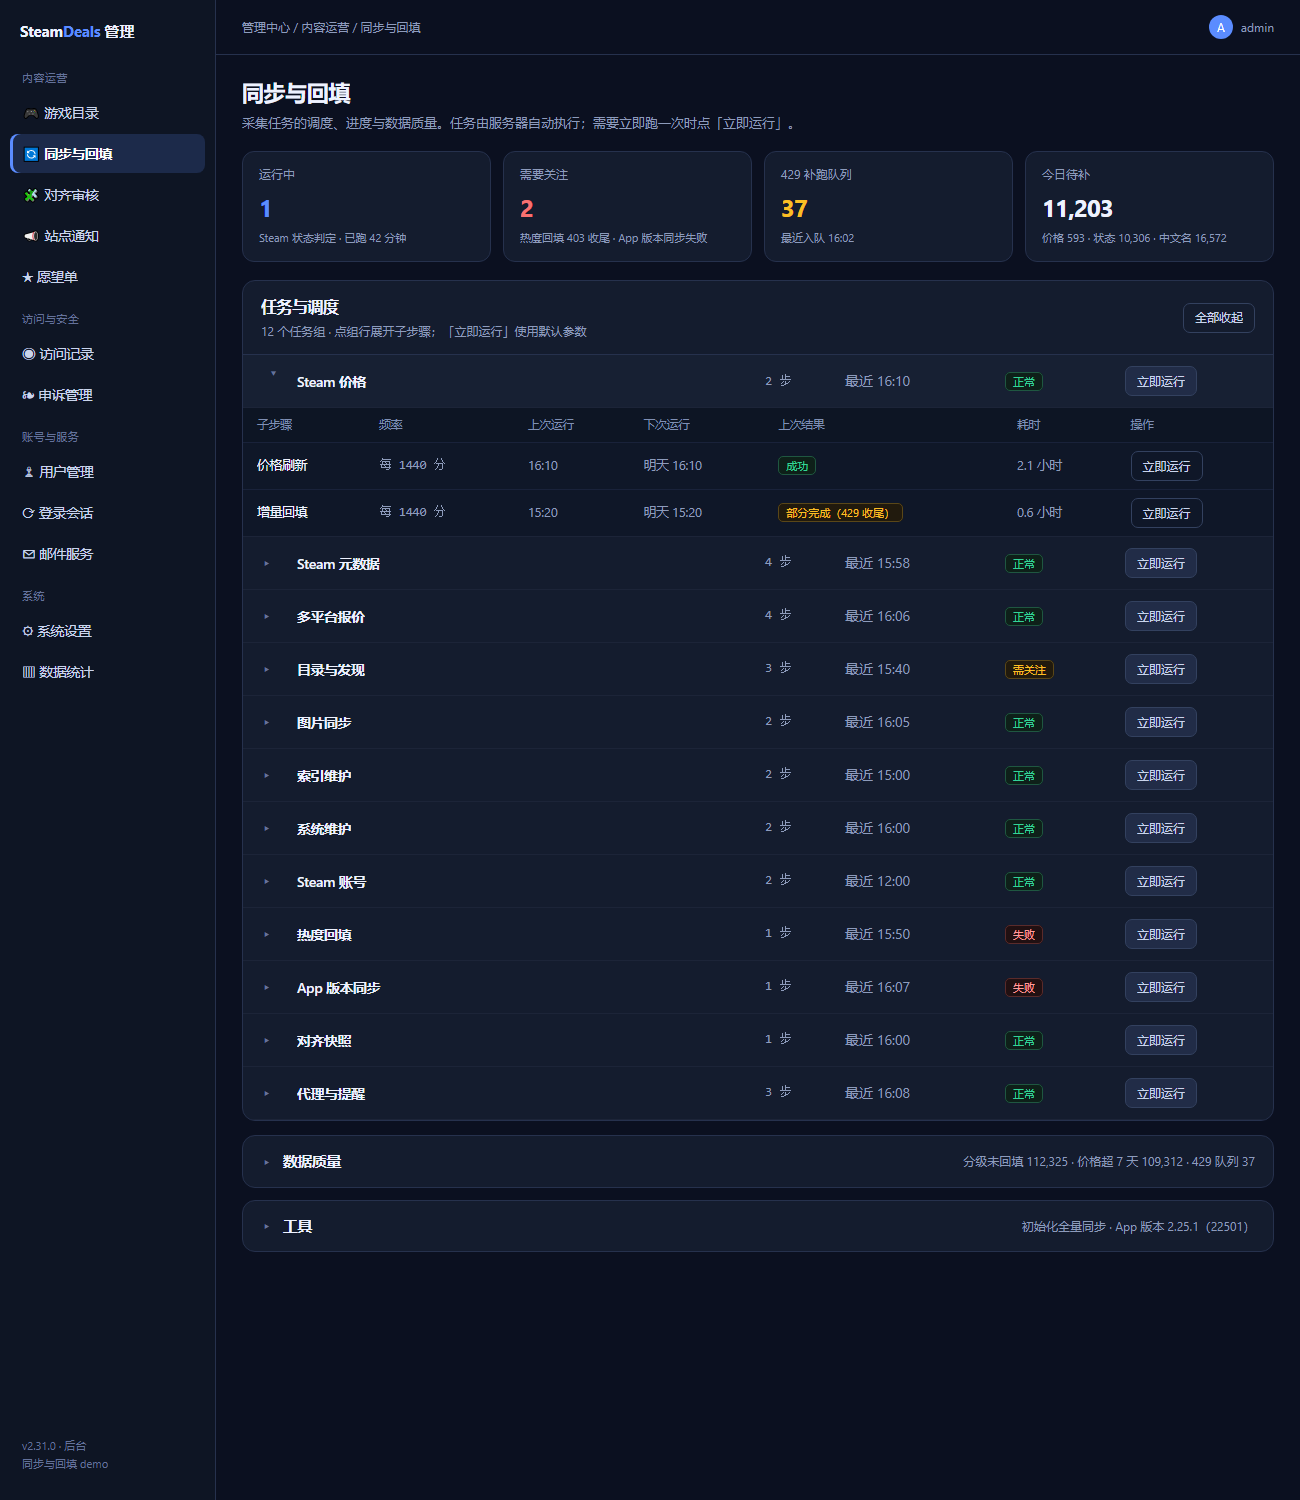
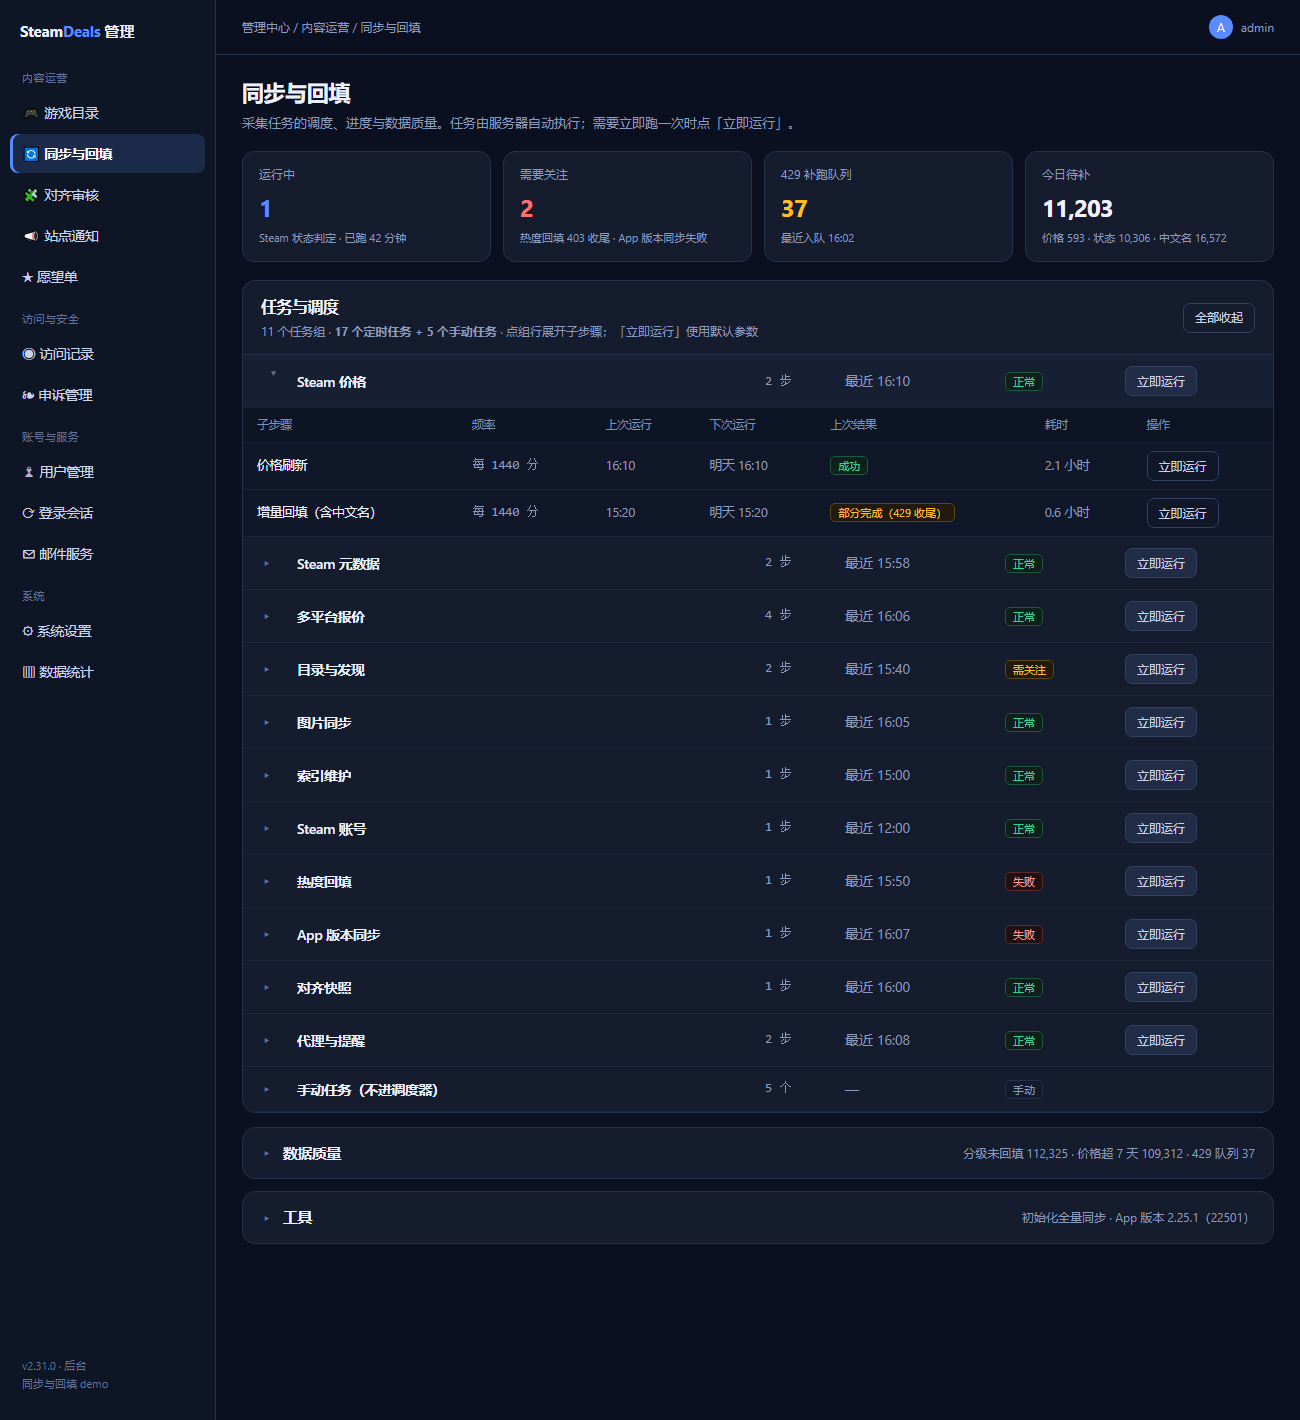
docs(design): GA 扩展任务精简 26→17（合并4/转手动4/降频4）+ demo 改 11 组 17 定时 + 手动组；规格与条目拆 GA-1/GA-2

diff --git a/docs/design/sync-page-redesign-2026-11-27.html b/docs/design/sync-page-redesign-2026-11-27.html
@@ -156,7 +156,7 @@
 
       <div class="panel">
         <div class="panel-head">
-          <div><h2>任务与调度</h2><p>12 个任务组 · 点组行展开子步骤；「立即运行」使用默认参数</p></div>
+          <div><h2>任务与调度</h2><p>11 个任务组 · <b>17 个定时任务 + 5 个手动任务</b> · 点组行展开子步骤；「立即运行」使用默认参数</p></div>
           <button class="btn ghost" id="collapseAll">全部收起</button>
         </div>
         <div id="groups"></div>
@@ -244,55 +244,52 @@
   var GROUPS = [
     {name:'Steam 价格', health:'ok', last:'16:10', steps:[
       {n:'steam-prices', l:'价格刷新', f:'每 1440 分', last:'16:10', next:'明天 16:10', r:'ok', t:'2.1 小时'},
-      {n:'backfill', l:'增量回填', f:'每 1440 分', last:'15:20', next:'明天 15:20', r:'oke', t:'0.6 小时'},
+      {n:'backfill', l:'增量回填（含中文名）', f:'每 1440 分', last:'15:20', next:'明天 15:20', r:'oke', t:'0.6 小时'},
     ]},
     {name:'Steam 元数据', health:'ok', last:'15:58', steps:[
       {n:'steam-status', l:'状态判定', f:'每 1440 分', last:'15:58', next:'明天 15:58', r:'run', t:'跑 42 分钟'},
-      {n:'rating-backfill', l:'分级回填', f:'每 1440 分', last:'11:30', next:'明天 11:30', r:'ok', t:'8.3 小时'},
-      {n:'explicit-backfill', l:'色情游戏回填', f:'每 10080 分', last:'11-24 20:22', next:'12-01 20:22', r:'ok', t:'2.1 小时'},
-      {n:'rename', l:'重写名字', f:'每 10080 分', last:'11-25 03:10', next:'12-02 03:10', r:'ok', t:'48 分钟'},
+      {n:'rating-backfill', l:'分级回填（含色情分级）', f:'每 1440 分', last:'11:30', next:'明天 11:30', r:'ok', t:'8.3 小时'},
     ]},
     {name:'多平台报价', health:'ok', last:'16:06', steps:[
-      {n:'sonkwo', l:'杉果同步', f:'每 60 分', last:'16:06', next:'17:06', r:'ok', t:'2 分钟'},
+      {n:'sonkwo', l:'杉果同步', f:'每 180 分', last:'16:06', next:'19:06', r:'ok', t:'2 分钟'},
       {n:'itad', l:'ITAD 匹配', f:'每 1440 分', last:'14:22', next:'明天 14:22', r:'ok', t:'1 分钟'},
       {n:'gog', l:'GOG 匹配', f:'每 720 分', last:'13:10', next:'01:10', r:'ok', t:'1 分钟'},
       {n:'humble', l:'Humble 匹配', f:'每 720 分', last:'13:12', next:'01:12', r:'ok', t:'1 分钟'},
     ]},
     {name:'目录与发现', health:'warn', last:'15:40', steps:[
-      {n:'catalog', l:'目录同步', f:'每 10080 分', last:'11-25 03:00', next:'12-02 03:00', r:'ok', t:'6 分钟'},
       {n:'steam-discovery', l:'Deck 发现', f:'每 30 分', last:'15:40', next:'16:10', r:'ok', t:'24 秒'},
       {n:'discover', l:'杉果发现', f:'每 720 分', last:'12:20', next:'00:20', r:'warn', t:'12 分钟'},
     ]},
     {name:'图片同步', health:'ok', last:'16:05', steps:[
-      {n:'images', l:'封面缓存', f:'每 240 分', last:'16:05', next:'20:05', r:'ok', t:'4 分钟'},
-      {n:'images-backfill', l:'缺图回填', f:'每 360 分', last:'15:30', next:'21:30', r:'ok', t:'2 分钟'},
+      {n:'images', l:'封面缓存（含补图）', f:'每 240 分', last:'16:05', next:'20:05', r:'ok', t:'4 分钟'},
     ]},
     {name:'索引维护', health:'ok', last:'15:00', steps:[
-      {n:'readmodel', l:'读模型对账', f:'每 1440 分', last:'03:00', next:'明天 03:00', r:'ok', t:'40 秒'},
-      {n:'search-tokens-rebuild', l:'搜索词重建', f:'每 360 分', last:'15:00', next:'21:00', r:'ok', t:'1 分钟'},
-    ]},
-    {name:'系统维护', health:'ok', last:'16:00', steps:[
-      {n:'prune', l:'定期清理', f:'每 10080 分', last:'11-24 04:00', next:'12-01 04:00', r:'ok', t:'2 分钟'},
-      {n:'logs', l:'日志清理', f:'每 10080 分', last:'11-24 04:05', next:'12-01 04:05', r:'ok', t:'0.3 秒'},
+      {n:'readmodel', l:'读模型对账（含搜索词重建）', f:'每 1440 分', last:'15:00', next:'明天 15:00', r:'ok', t:'41 秒'},
     ]},
     {name:'Steam 账号', health:'ok', last:'12:00', steps:[
       {n:'steam-accounts', l:'账号同步', f:'每 1440 分', last:'12:00', next:'明天 12:00', r:'ok', t:'3 分钟'},
-      {n:'steam-claim', l:'认领账号', f:'手动', last:'—', next:'—', r:'idle', t:'—'},
     ]},
     {name:'热度回填', health:'bad', last:'15:50', steps:[
       {n:'heat', l:'热度回填', f:'每 10 分', last:'15:50', next:'16:00', r:'bad', t:'2.8 分钟'},
     ]},
     {name:'App 版本同步', health:'bad', last:'16:07', steps:[
-      {n:'app-release-sync', l:'App 版本', f:'每 15 分', last:'16:07', next:'16:22', r:'bad', t:'1.2 秒'},
+      {n:'app-release-sync', l:'App 版本', f:'每 60 分', last:'16:07', next:'17:07', r:'bad', t:'1.2 秒'},
     ]},
     {name:'对齐快照', health:'ok', last:'16:00', steps:[
-      {n:'align-snapshot', l:'对齐快照', f:'每 30 分', last:'16:00', next:'16:30', r:'ok', t:'3 秒'},
+      {n:'align-snapshot', l:'对齐快照', f:'每 120 分', last:'16:00', next:'18:00', r:'ok', t:'3 秒'},
     ]},
     {name:'代理与提醒', health:'ok', last:'16:08', steps:[
-      {n:'proxy-probe', l:'代理探测', f:'每 10 分', last:'16:08', next:'16:18', r:'ok', t:'2 秒'},
+      {n:'proxy-probe', l:'代理探测', f:'每 30 分', last:'16:08', next:'16:38', r:'ok', t:'2 秒'},
       {n:'alerts', l:'到价提醒', f:'每 360 分', last:'12:00', next:'18:00', r:'ok', t:'8 秒'},
-      {n:'report', l:'价格报表', f:'每 1440 分', last:'09:00', next:'明天 09:00', r:'ok', t:'12 秒'},
     ]},
+  ];
+  // 精简后不再进调度器、只保留「立即运行」的手动任务
+  var MANUAL = [
+    {n:'catalog', l:'目录同步（全量）', r:'idle', t:'6 分钟'},
+    {n:'prune', l:'定期清理', r:'idle', t:'2 分钟'},
+    {n:'logs', l:'日志清理', r:'idle', t:'0.3 秒'},
+    {n:'report', l:'价格报表', r:'idle', t:'12 秒'},
+    {n:'steam-claim', l:'认领未归属账号', r:'idle', t:'—'},
   ];
   var LABEL = {'ok':'成功','oke':'部分完成（429 收尾）','warn':'失败 1 次','bad':'失败','run':'运行中','idle':'手动'};
   var CLS = {'ok':'b-ok','oke':'b-warn','warn':'b-bad','bad':'b-bad','run':'b-run','idle':'b-idle'};
@@ -327,6 +324,33 @@
     host.appendChild(row);
     host.appendChild(steps);
   });
+
+  // 手动任务组（精简后不再进调度器，只保留「立即运行」）
+  (function(){
+    var row = document.createElement('div');
+    row.className = 'row-group';
+    row.innerHTML = '<span class="caret">▸</span>'
+      + '<span class="gname">手动任务（不进调度器）</span>'
+      + '<span class="mono muted col-hide">' + MANUAL.length + ' 个</span>'
+      + '<span class="muted col-hide">—</span>'
+      + '<span class="col-hide"><span class="badge b-idle">手动</span></span>'
+      + '<span class="col-hide"></span>';
+    var steps = document.createElement('div');
+    steps.className = 'steps';
+    steps.innerHTML = '<table><thead><tr><th>任务</th><th>频率</th><th>上次运行</th><th>下次运行</th><th>上次结果</th><th>耗时</th><th>操作</th></tr></thead><tbody>'
+      + MANUAL.map(function(s){
+          return '<tr><td>' + s.l + '</td><td class="muted">手动</td><td class="muted">—</td><td class="muted">—</td>'
+            + '<td><span class="badge b-idle">手动</span></td><td class="muted">' + s.t + '</td>'
+            + '<td><button class="btn ghost" data-run="' + s.n + '">立即运行</button></td></tr>';
+        }).join('') + '</tbody></table>';
+    row.addEventListener('click', function(e){
+      if (e.target.closest('button')) return;
+      row.classList.toggle('open');
+      steps.classList.toggle('show');
+    });
+    host.appendChild(row);
+    host.appendChild(steps);
+  })();
 
   // ---------- 工具 ----------
   var toastTimer = null;

diff --git a/docs/SYNC-PAGE-REDESIGN.md b/docs/SYNC-PAGE-REDESIGN.md
@@ -37,6 +37,8 @@
 | 4 | 不改任何接口与数据口径（复用现有 `sync/status`、`sync/freshness`、`sync/429queue`、分级统计、App latest） |
 | 5 | 群组「立即运行」与子步骤「立即运行」都保留；批量/组级行为不变 |
 | 6 | 移动端：侧栏变顶部横向菜单；任务组行改为两行（名称 + 状态，子步骤表横向滚动） |
+| 7 | **任务精简（所有者 2026-11-27 追加确认）**：定时任务 **26 → 17**——合并 5 处、转手动 4 个、降频 4 处（详见 §3.7）；界面按「11 个任务组 + 手动任务组」呈现 |
+| 8 | 精简后的手动任务（catalog / prune / logs / report / steam-claim）**保留「立即运行」入口**，不再进调度器 |
 
 ## 2. 信息架构
 
@@ -56,8 +58,9 @@
 概览条（4 卡，可点定位）
   ├ 运行中 1 · 需要关注 2（点击滚到失败组）· 429 队列 37 · 今日待补 11,203
 任务与调度（主区）
-  ├ 12 个任务组：名称 / 子步骤数 / 最近运行 / 健康 / 「立即运行」
-  └ 展开：子步骤表（子步骤 / 频率 / 上次 / 下次 / 结果 / 耗时 / 操作）
+  ├ 11 个任务组（17 个定时任务）：名称 / 子步骤数 / 最近运行 / 健康 / 「立即运行」
+  ├ 展开：子步骤表（子步骤 / 频率 / 上次 / 下次 / 结果 / 耗时 / 操作）
+  └ 末尾「手动任务（不进调度器）」组：catalog / prune / logs / report / steam-claim（只保留立即运行）
 折叠「数据质量」（标题行带摘要）
   ├ 内容分级统计（5 卡 + 最近回填时间）
   ├ 数据时效（4 卡 7/3/1 天 + 补跑按钮）
@@ -75,6 +78,25 @@
 4. **补跑按钮**：数据时效 4 个「补跑」与 429「立即补」走同一确认/反馈；
 5. **任务实时进度**：运行中任务在概览「运行中」卡与任务组行内显示，不再单独一块占位；
 6. **任务告警**（缺 Key / 被关掉）收进任务表头部的 warning 提示条，不再单独一块。
+
+### 3.7 任务精简（26 → 17，所有者 2026-11-27 追加确认）
+
+**现状**：`jobsFromEnv` 里 26 个定时任务（12 个界面组只是分组）；按频率月 5 分钟级 / 8 小时级 / 8 天级 / 5 周级。
+
+| 动作 | 任务 | 做法 |
+|---|---|---|
+| **合并** | `rename` → `backfill` | backfill 取 appdetails 时顺带写中文名（同一次响应，零额外请求） |
+| **合并** | `search-tokens-rebuild` → `readmodel` | readmodel 每日对账后顺带增量重建 token（纯本地计算） |
+| **合并** | `images-backfill` → `images` | images 每轮顺带补缺图（同一批封面） |
+| **合并** | `explicit-backfill` → `rating-backfill` | rating-backfill 候选并入「strict 色情分级」分支（同链路，候选不同） |
+| **转手动** | `catalog` / `prune` / `logs` / `report` | 移除定时，只保留「立即运行」；`report` 仍受 notifier 条件约束 |
+| **降频** | `proxy-probe` 10→30 分、`app-release-sync` 15→60 分、`align-snapshot` 30→120 分、`sonkwo` 60→180 分 | 只改默认 `intervalMin`（env 仍可覆盖） |
+
+**保留不动**：steam-prices、backfill、steam-status、rating-backfill、images、readmodel、alerts、steam-accounts、
+heat（10 分）、steam-discovery（30 分）、itad、gog、humble、discover、app-release-sync、align-snapshot、proxy-probe。
+
+**兼容要求**：被合并的任务**CLI 命令与参数不删**（`rename` / `search-tokens` / `images-backfill` / `explicit-backfill`
+仍可手动跑），只是不再进调度器；`/api/admin/sync/status` 的 `schedule.jobs` 自然少 9 项，前端按返回渲染不写死。
 
 ## 4. 数据与接口
 
@@ -100,23 +122,37 @@
 - 初始化全量同步仍二次确认（危险动作，文案保留「默认 20 万上限」）；
 - 无新增密钥/凭据。
 
-## 7. 验收（8 条）
+## 7. 验收（8 条，分两批）
+
+### GA-1 界面（4 条）
 
 | # | 验收 | 对应 demo 状态 |
 |---|---|---|
 | 1 | 内容运营组出现三项一级菜单（游戏目录 / 同步与回填 / 对齐审核），点击直达；游戏管理不再有内部 tab | 左侧菜单 |
-| 2 | 同步与回填页自上而下：概览条 → 任务表 → 折叠数据质量 → 折叠工具，**页面上没有平铺的 10 个区块**（静态锁） | 图 1 |
-| 3 | 概览 4 卡数字来自 `sync/status` + `freshness` + `429queue`；「需要关注」点击滚到失败组并展开 | 图 1 |
-| 4 | 12 任务组：点击展开/收起子步骤；组级与子步骤级「立即运行」都弹确认 → 提交后按钮置灰「已提交」+ toast | 图 1（展开态） |
-| 5 | 折叠「数据质量」展开后含 分级统计 5 卡 / 数据时效 4 卡（可补跑）/ 429 队列 3 卡（可立即补）；折叠时标题行显示摘要 | 图 2 |
-| 6 | 折叠「工具」展开后含 初始化全量同步（二次确认）+ App 版本 4 卡（立即同步） | 图 2 |
-| 7 | 任务告警（缺 Key/被关掉）显示在任务表头部提示条；运行中任务在概览「运行中」卡与组行内可见，无单独「任务健康」块 | 图 1 |
-| 8 | 移动端 ≤980px 侧栏变顶部横向菜单、任务组行两行、无横向溢出；`npm test`（分段）+ `frontend:build` + `scan` 全绿 | — |
+| 2 | 同步与回填页自上而下：概览条 → 任务表 → 折叠数据质量 → 折叠工具；**页面上没有平铺的 10 个区块**（静态锁） | 图 1 |
+| 3 | 概览 4 卡数字来自 `sync/status` + `freshness` + `429queue`；「需要关注」点击滚到失败组并展开；折叠收起时标题行显示摘要 | 图 1 / 图 2 |
+| 4 | 12→11 任务组 + 「手动任务」组：点击展开/收起子步骤；组级与子步骤级「立即运行」都弹确认 → 按钮置灰 + toast；告警收进表头提示条；移动端 ≤980px 侧栏变顶部横向菜单 | 图 1（手动组收起态）/ 图 2 |
+
+### GA-2 任务精简（4 条）
+
+| # | 验收 | 断言 |
+|---|---|---|
+| 5 | `jobsFromEnv` 定时任务 **26 → 17**（合并 5 处 + 转手动 4 个），界面组 12 → 11 + 手动组 | 单测断言任务名集合（不多不少） |
+| 6 | 降频 4 项默认值：proxy-probe 30 / app-release-sync 60 / align-snapshot 120 / sonkwo 180（env 仍可覆盖） | 单测断言 `intervalMin` |
+| 7 | 4 处合并逻辑真生效：backfill 顺带写中文名、readmodel 顺带重建 token、images 顺带补缺图、rating-backfill 含 strict 色情分级 | 各自单测（真 pglite / mock） |
+| 8 | 5 个手动任务仍可「立即运行」（catalog / prune / logs / report / steam-claim），被合并任务的 CLI 命令未删；`npm test`（分段）+ `frontend:build` + `scan` 全绿 | CLI 实跑 + 构建 |
 
 ## 8. 实施顺序
 
-单批 **GA-1**（菜单拆分 + 页结构重排 + 折叠与概览 + 移动端）。不改后端，改动集中 `Console.vue` / `AdminModules.vue` + 2~3 个新组件。
+**拆两批（每批一个 QA 单元、验收各 4 条）**：
+
+| 子批 | 内容 | 验收 |
+|---|---|---|
+| **GA-1** 界面 | 菜单三项 + 页结构（概览/任务表/两折叠）+ 告警收表头 + 手动任务组 + 移动端 | §7 的 1~4 |
+| **GA-2** 任务精简 | 合并 4 处 + 转手动 4 个 + 降频 4 处 + 兼容（CLI 命令不删） | §7 的 5~8 |
+
+依赖：两者无强依赖，建议 **GA-1 先**（界面先按「17 定时 + 手动组」渲染，GA-2 再改后端；任务数变化由接口返回驱动，前端不写死）。
 
 ## 9. 待确认
 
-无（三个一级菜单 / 任务优先 + 两块折叠 / demo 全可点 三项已于 2026-11-27 确认）。
+无（四项已于 2026-11-27 确认：三项一级菜单 + 任务优先/两块折叠 / 可交互 demo / 任务精简六类动作（合并 4、转手动 4、降频 4））。

diff --git a/docs/REQUIREMENTS-INDEX.md b/docs/REQUIREMENTS-INDEX.md
@@ -184,7 +184,7 @@
 | **FX** | ⚙ 调整：后台密钥查看统一——8 个 secret 在四种布局分支统一「**密码框 + 眼睛图标**原地切换明文/密文」（懒加载、30 秒自动回密文、未改动不提交）；审计写 `audit_logs`（`admin.secret_revealed`）；抽 `SecretField.vue` | [SECRET-REVEAL.md](SECRET-REVEAL.md)、demo `design/secret-reveal-2026-11-27.html` | 待开发（2026-11-27 确认，含 demo） | ✅ 本轮已给 |
 | **FY** | ⚙ 调整：系统设置页重设计——左导航 7 组（重划，去「高级」混维度）+ `/console/settings/:group` 二级路由 + 去卡片盒子（层级 3→2）+ 每项即时保存（防抖 + 合并）+ 工具栏只留搜索/只看非默认 | [SETTINGS-REDESIGN.md](SETTINGS-REDESIGN.md)、demo `design/settings-redesign-2026-11-27.html` | 待开发（2026-11-27 确认，含 demo；依赖 FX） | ✅ 本轮已给 |
 | **FZ** | ⚙ 调整：访问记录重设计——左导航七块（概览/异常处置/访问分析/IP 封禁/设备封禁/临时封禁/白名单）+ 概览 6 张数字卡 + **处置只留异常处置一个入口**（访问分析只读）+ **IP 详情抽屉** + 封禁/信任后移出（toast 5 秒撤销）+ **四类解封各在自己那页 + 状态词统一**；新增 overview 接口、status 加 active/trusted | [VISITORS-REDESIGN.md](VISITORS-REDESIGN.md)、demo `design/visitors-redesign-2026-11-27.html` | 待开发（2026-11-27 确认，含 demo；**暂不排开发**） | ✅ 本轮已给 |
-| **GA** | ⚙ 调整：游戏管理拆分 + 同步与回填页重设计——内容运营拆三个一级菜单（游戏目录/同步与回填/对齐审核）+ 页内「概览 4 卡 → 任务组表（主）→ 折叠数据质量 / 折叠工具」，告警收表头、运行中并入概览 | [SYNC-PAGE-REDESIGN.md](SYNC-PAGE-REDESIGN.md)、**可交互 demo** `design/sync-page-redesign-2026-11-27.html` | 待开发（2026-11-27 确认，含可交互 demo） | ✅ 本轮已给 |
+| **GA** | ⚙ 调整：游戏管理拆分 + 同步与回填页重设计——内容运营拆三个一级菜单（游戏目录/同步与回填/对齐审核）+ 页内「概览 4 卡 → 任务组表（主）→ 折叠数据质量 / 折叠工具」，告警收表头、运行中并入概览；**+ 定时任务精简 26→17**（合并 4 处 / 转手动 4 个 / 降频 4 处，CLI 命令保留）；拆 GA-1 界面 / GA-2 精简 | [SYNC-PAGE-REDESIGN.md](SYNC-PAGE-REDESIGN.md)、**可交互 demo** `design/sync-page-redesign-2026-11-27.html` | 待开发（2026-11-27 确认，含可交互 demo；两子批） | ✅ 本轮已给 |
 
 ## 本会话（2026-11-06）讨论过、但**不属于项目文档**的内容
 

diff --git a/docs/TODO.md b/docs/TODO.md
@@ -283,10 +283,10 @@
 - **验收**：见规格 §7（8 条）；拆 FZ-1（结构+概览）/ FZ-2（处置+列表）两批。
 - **排期**：当前版本已定稿，可随时派开发（建议排在 FX / FY 之后，复用行组件与左导航样式）；设计若再调整，先改 demo 与规格再同步本条。
 
-## GA. 待开发（⚙ 调整）：游戏管理拆分 + 同步与回填页重设计——三个一级菜单 + 任务优先 + 两块折叠
+## GA. 待开发（⚙ 调整）：游戏管理拆分 + 同步与回填页重设计——三个一级菜单 + 任务优先 + 两块折叠 + 定时任务精简 26→17
 
 **状态：** 待开发
-**类型：** ⚙ 调整（后台「内容运营」：菜单拆分 + 同页结构重排）
+**类型：** ⚙ 调整（后台「内容运营」：菜单拆分 + 同页结构重排 + 定时任务精简）
 **优先级：** P2 —— 三个 tab 混层级；「同步与回填」页 10 个区块平铺、主次不分
 **依赖：** 无（建议排在 FX / FY 之后，可复用左导航/折叠样式）
 **解锁：** 无
@@ -299,6 +299,14 @@
 - **范围**：内容运营拆三个一级菜单（游戏目录 / 同步与回填 / 对齐审核）；页内改「概览 4 卡 → 任务组表（主）→
   折叠「数据质量」（分级统计 + 数据时效 + 429 队列）→ 折叠「工具」（初始化全量 + App 版本）」；任务告警收进表头提示条；
   运行中任务并入概览卡与组行；不改接口与数据口径。
-- **验收**：见规格 §7（8 条，含 demo 状态↔断言对照）。
+- **子批（两个开发会话，各一个 QA 单元，验收各 4 条）**：
+
+  | 子批 | 内容 | 状态 | 依赖 |
+  |---|---|---|---|
+  | **GA-1** | 菜单拆三项（游戏目录/同步与回填/对齐审核）+ 页结构（概览 4 卡 → 任务组表 → 折叠数据质量 → 折叠工具）+ 告警收表头 + 手动任务组 + 移动端 | 待开发 | 无 |
+  | **GA-2** | 定时任务 **26 → 17**：合并 4 处（rename→backfill / search-tokens→readmodel / images-backfill→images / explicit-backfill→rating-backfill）+ 转手动 4 个（catalog/prune/logs/report）+ 降频 4 处（proxy-probe 30 / app-release-sync 60 / align-snapshot 120 / sonkwo 180）；被合并任务的 CLI 命令保留 | 待开发 | 建议 GA-1 先 |
+
+- **验收**：GA-1 = 规格 §7 的 1~4（含 demo 状态↔断言对照）；GA-2 = 规格 §7 的 5~8（任务集合/降频/合并逻辑/CLI 兼容）。
+
 
 
